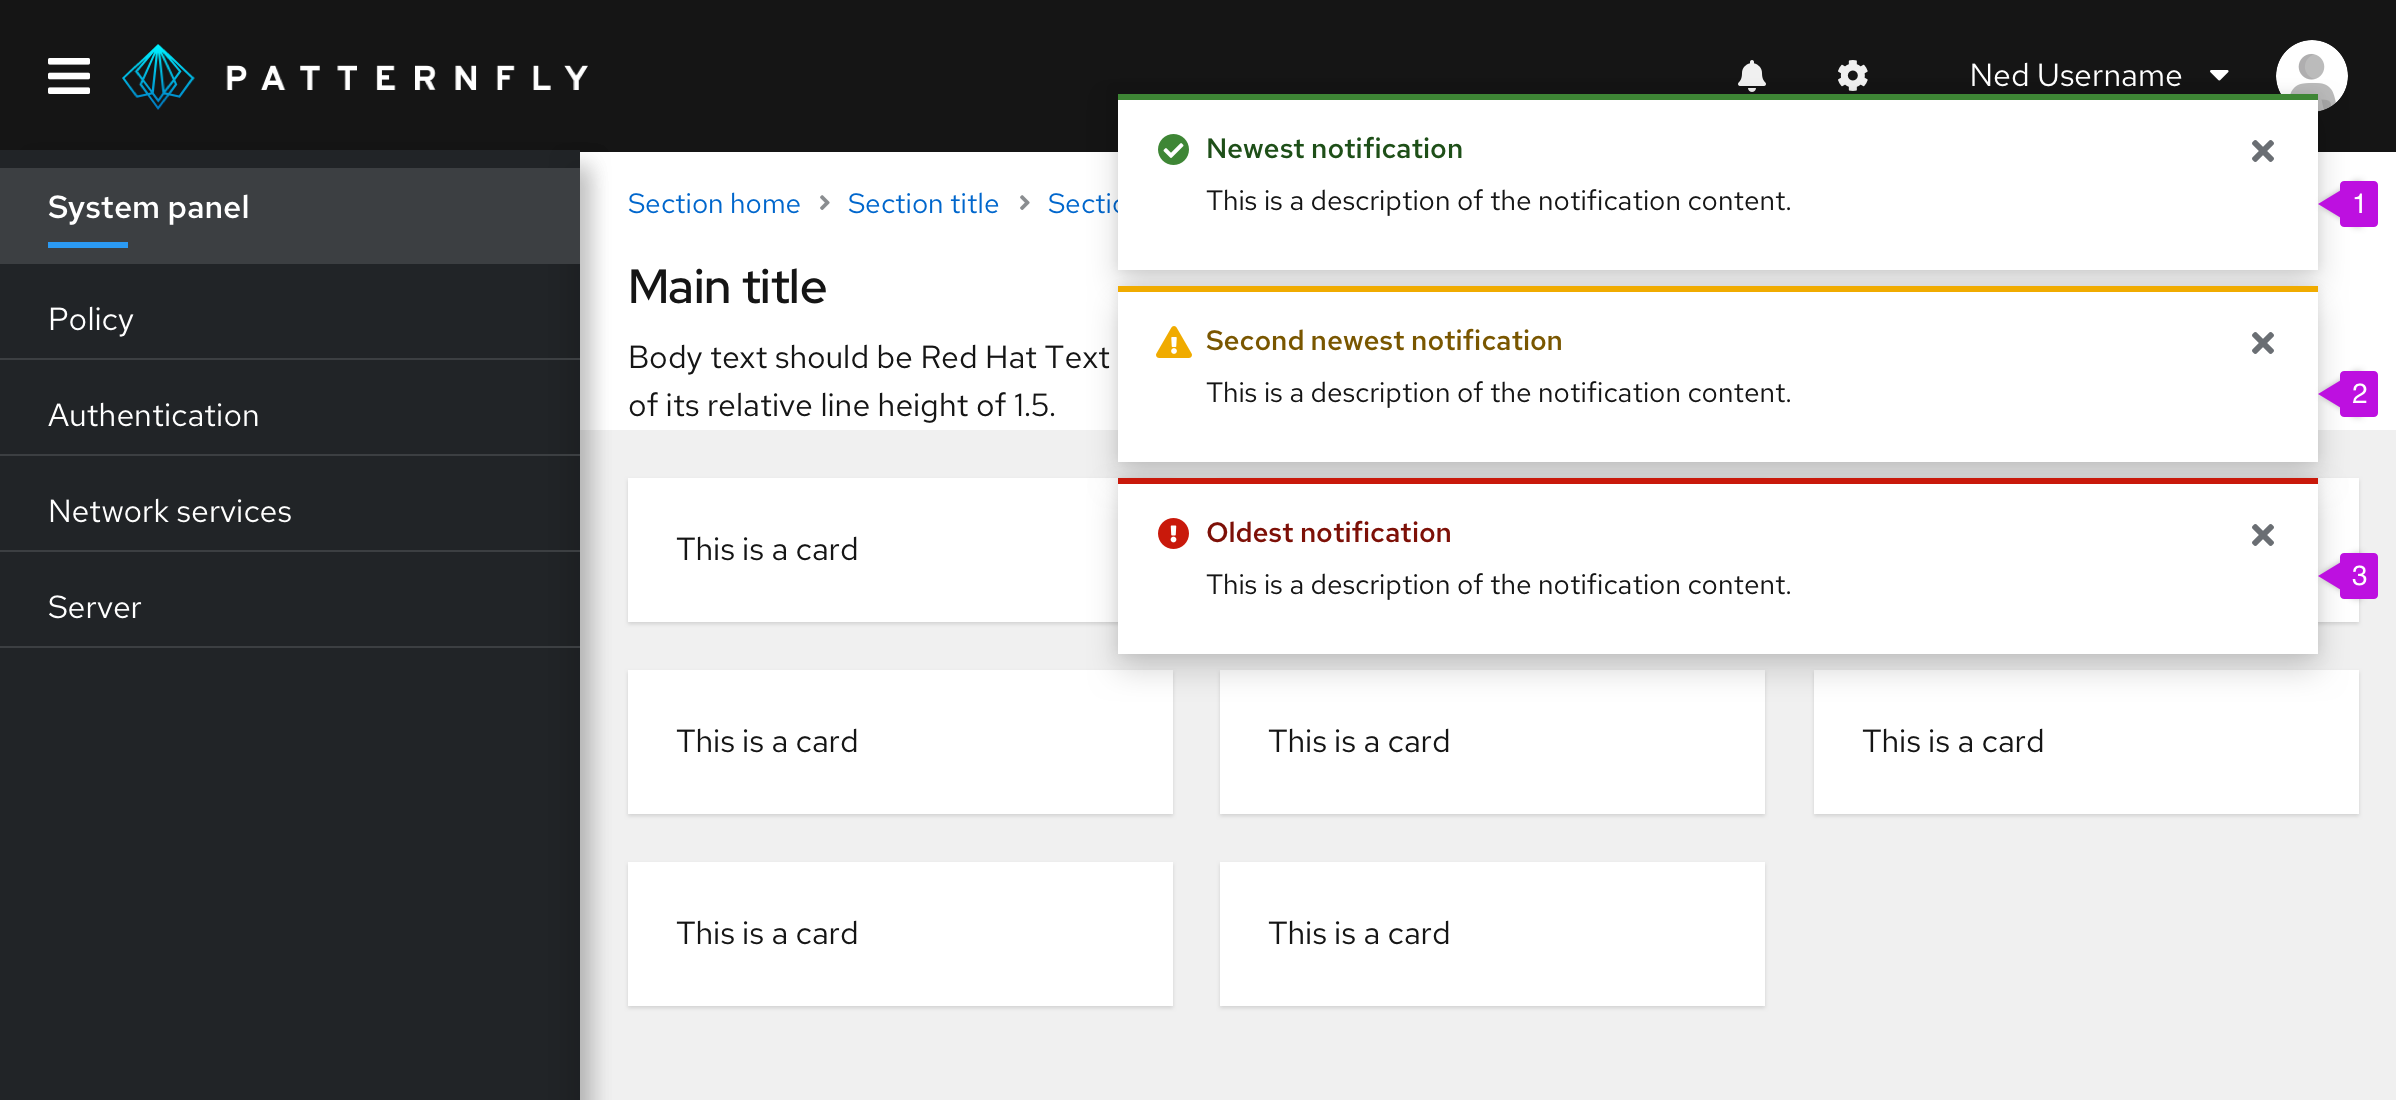
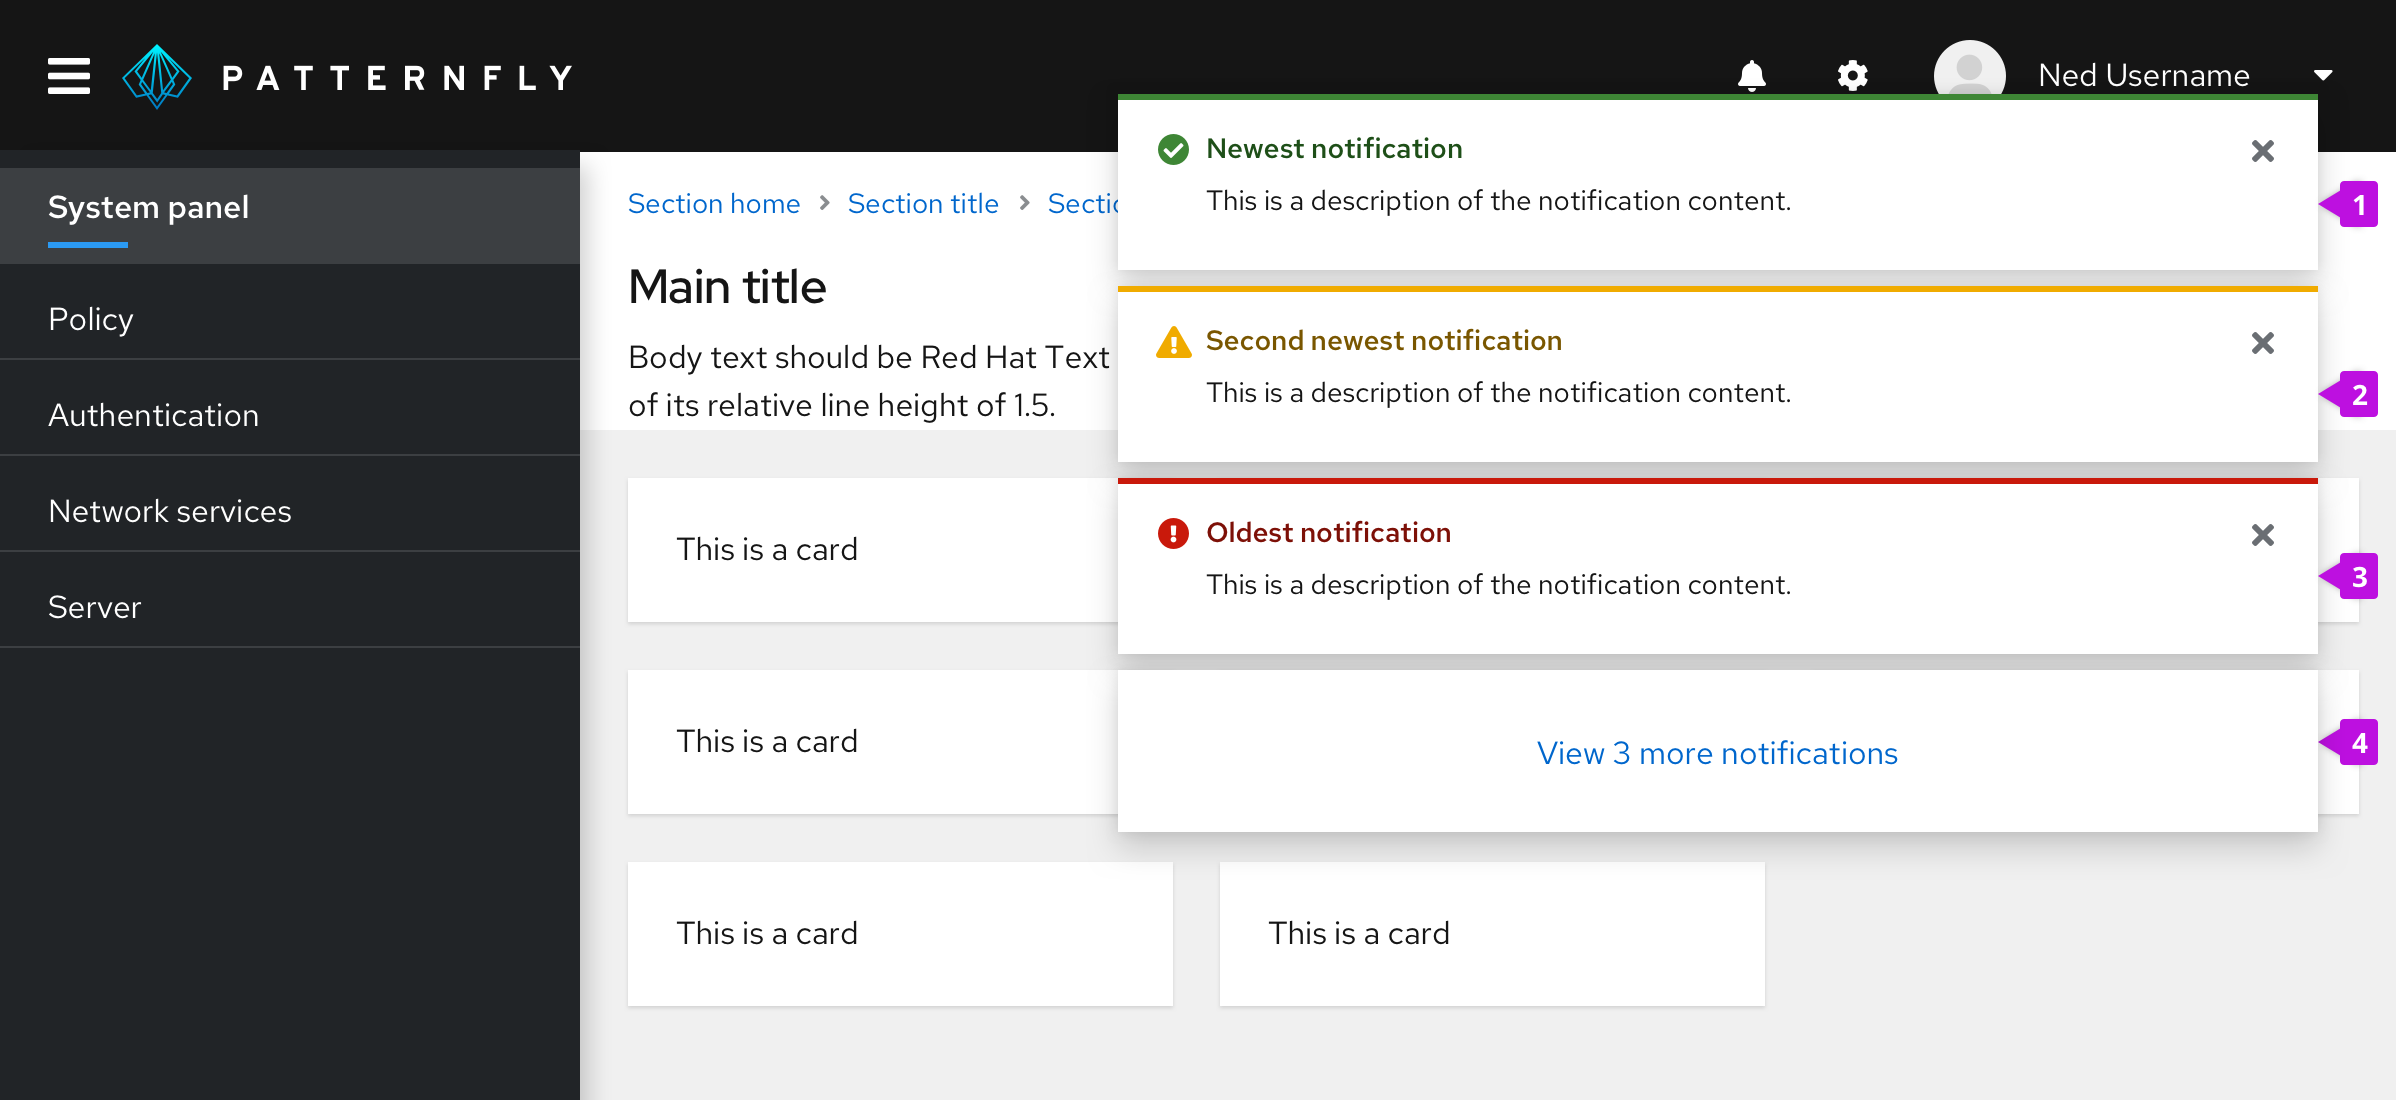
Adds overflow footer images and text

diff --git a/packages/v4/src/content/design-guidelines/components/alert-group/alert-group.md b/packages/v4/src/content/design-guidelines/components/alert-group/alert-group.md
@@ -3,7 +3,7 @@ id: Alert group
 section: components
 ---
 
-An **alert group** stacks and positions 2 or more alerts in a layer over the main content of a page. Alert groups should always rank alerts by age, stacking new alerts on top of old ones as they surface. 
+An **alert group** stacks and positions 2 or more alerts in a layer over the main content of a page. Alert groups should always rank alerts by age, stacking new alerts on top of old ones as they surface.
 
 Use an alert group when you need to position multiple alerts on the same page, mainly [toast alerts](/components/alert/design-guidelines#elements). Toast alerts continue to stack until a user dismisses them or they reach an automatic timeout (8 seconds is recommended).
 
@@ -14,6 +14,7 @@ Use an alert group when you need to position multiple alerts on the same page, m
 1. **Newest notification:** Always appears at the top of the alert group.
 2. **Second newest notification:** Moves down when a newer notification surfaces.
 3. **Oldest notification:** Continues to move down the stack as newer notifications surface, until a user closes it.
+4. **Overflow footer (optional):** Use this when you do not want to display more than a specified number of alerts at the same time on the user's screen. See [Managing overflow](#managing-overflow) for more information about overflow footer interactions.
 
 ## Placement
 Use 8px of padding between each alert in an alert group. Alert group alignment on a page will depend on your use case.
@@ -25,5 +26,13 @@ Use 8px of padding between each alert in an alert group. Alert group alignment o
 **For mobile views**, center alert groups over your page content.
 
 <img src="./img/alert-group-mobile.png" alt="An example of a centered alert group over a mobile view." width="375" />
+
+## Managing Overflow
+If you don't want multiple alerts to stack and fill the screen until the user dismisses them, you may use the overflow footer in an alert group to manage overflow. When applying overflow, you should decide how many alerts to display before showing the footer. A threshold of 3 alerts is recommended. After that, additional alerts added to the screen will cause older alerts to be hidden, and only the most recent 3 alerts are displayed.
+
+The overflow link should be configured to navigate to a place where the user can view and manage a complete list of incoming alerts. If a [notification drawer](/components/notification-drawer) is being used, it should open the drawer. You may customize the text accordingly to reflect the result of clicking the link. However, we recommend displaying the number of new/unread notifications present to give the user feedback about how many additional notifications are remaining to view as in the example below.
+
+<img src="./img/alert-group-with-overflow.png" alt="An example of an alert group with overflow footer" width="662" />
+
 
 See our [alert guidelines](/components/alert/design-guidelines/#using-toast-alerts) for more information about using toast alerts.
